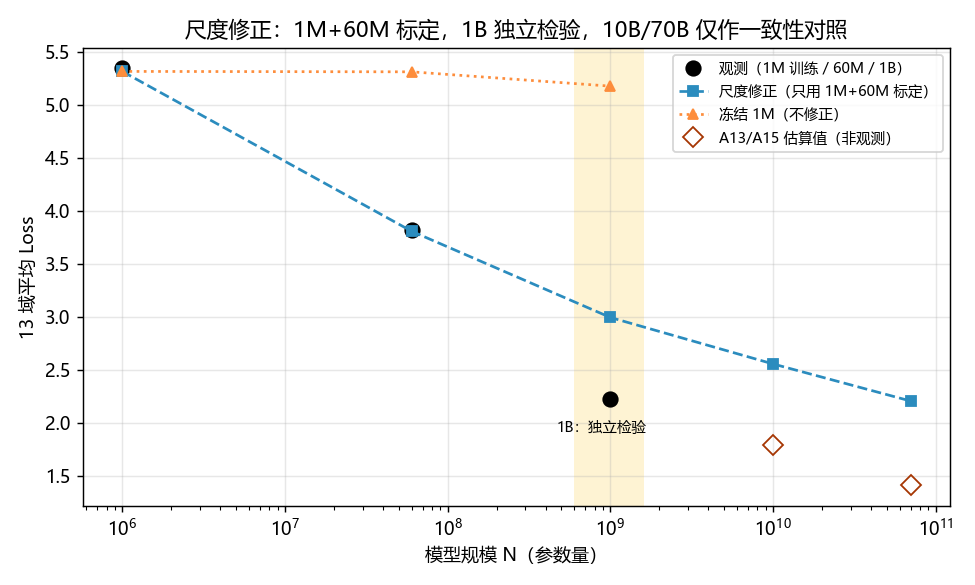
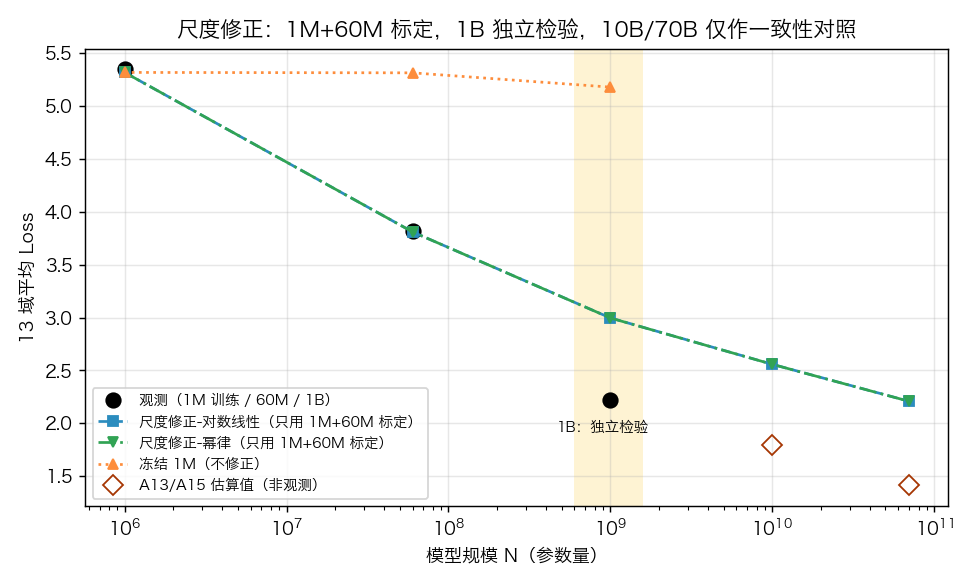
代码(Q1): 尺度修正升级为幂律形式并将Q_v2正名为D-S折扣
点2：Spec 升 v9/v10，§2.6 新增幂律形式 s(N)=(N/1e6)^{-λ}（闭式标定、零新增自由度，仅用 1M+60M 标定、1B 独立检验不变）；按预登记规则采用（1B 逐域 MAE 0.77108 vs 对数线性 0.77140，Spearman 持平 0.71268），改善幅度低于抽样噪声已如实记录；旧形式保留对照。重跑 q1_06（0.7s），五个 P1 接口文件 md5 字节一致，改动闭环在 Q1 内部。点4：Spec 升 v8，§2.3-补 正名为 Dempster-Shafer 可靠性折扣对照模型，数值未动；q1_03b 仅更新 docstring。论文 sec5_q1 与图同步。

遗留：src/outputs_q1/cache/step5_gbdt.pkl 为 v6 旧缓存，与已提交 v7 产物不符，待按 v7 重跑 q1_05 重建（详见项目整理与Spec同步核查）。

diff --git a/src/code_q1/q1_06_scale.py b/src/code_q1/q1_06_scale.py
@@ -5,8 +5,9 @@ q1_06_scale.py — Step6：跨尺度检验、尺度修正与外推表稳健性
   ① A6–A11：冻结 1M clr+Huber 模型直接预测 → 逐域 R²/RMSE/Spearman、排名衰减（P1_rank_decay）
   ② P1_scale_calibration：冻结 1M 系数的逐域校准斜率（仅评估统计量）
   ③ 冻结 1M GBDT 直接预测 60M/1B
-  ⑤ 尺度修正（按规模留一档）：ln L_v = b_v^1M + ρ_v t + (1+κt)·g_v(p)，t=ln(N/1e6)；
-     ρ_v、κ 只由 1M 训练与 60M（A8/A9）确定，1B（A10/A11）只作独立检验
+  ⑤ 尺度修正（按规模留一档）：ln L_v = b_v^1M + ρ_v t + s(N)·g_v(p)，t=ln(N/1e6)；
+     s(N) 两种形式并列：对数线性 1+κt（v7 起，对照）与幂律 (N/1e6)^(-λ)（v9 候选，λ=-ln s(60M)/t60）；
+     ρ_v 与缩放参数只由 1M 训练与 60M（A8/A9）确定，1B（A10/A11）只作独立检验
   ④ A12–A15（估算/外推、非观测）：冻结模型、尺度修正模型与"同配比 1M 观测 Loss"并列；
      A12/A14 是 A4 的子集，A13/A15 由三尺度幂律外推生成，只作一致性对照
 """
@@ -119,10 +120,14 @@ if __name__ == "__main__":
     _, b60_int = pooled_level(G["60M"], lnY["60M"], slope=1.0)
     t60 = tN(6e7)
     kappa, rho, rho_int = (s60 - 1) / t60, (b60 - b1m) / t60, (b60_int - b1m) / t60
+    lam = -np.log(s60) / t60        # 幂律 s(N)=(N/1e6)^(-λ)，与 κ 同源（只读 1M+60M）
 
-    def corrected(Gm, N, slope=True):
+    def corrected(Gm, N, slope=True, form="linear"):
         t = tN(N)
-        return b1m + rho * t + (1 + kappa * t) * Gm if slope else b1m + rho_int * t + Gm
+        if not slope:
+            return b1m + rho_int * t + Gm
+        s = (1 + kappa * t) if form == "linear" else (N / 1e6) ** (-lam)
+        return b1m + rho * t + s * Gm
 
     s1b_obs, b1b_obs = pooled_level(G["1B"], lnY["1B"])
     sc_rows = []
@@ -130,7 +135,8 @@ if __name__ == "__main__":
         N = SCALES[tag][2]; Y = data[tag][1]
         for name, lnh in (("冻结1M", b1m + G[tag]),
                           ("仅截距修正", corrected(G[tag], N, slope=False)),
-                          ("截距+缩放修正", corrected(G[tag], N))):
+                          ("截距+缩放修正(对数线性)", corrected(G[tag], N, form="linear")),
+                          ("截距+缩放修正(幂律)", corrected(G[tag], N, form="power"))):
             sc_rows.append(dict(scale=tag, N=N, role=role, method=name, **level_metrics(Y, lnh, w_eval)))
     sc_rows.append(dict(scale="1B", N=1e9, role="同集拟合（误差下界参照，不作结论）", method="1B同集截距+斜率",
                         **level_metrics(data["1B"][1], b1b_obs + s1b_obs * G["1B"], w_eval)))
@@ -140,9 +146,10 @@ if __name__ == "__main__":
                             b_1B_insample=b1b_obs))
     par["kappa"] = kappa; par["s_60M"] = s60
     par["s_1B_pred"] = 1 + kappa * tN(1e9); par["s_1B_insample"] = s1b_obs
+    par["lambda"] = lam; par["s_1B_pred_power"] = (1e9 / 1e6) ** (-lam)
     par.to_csv(f"{TABLES}/T6_scale_correction_params.csv", index=False)
-    print(f"\n尺度修正（ρ_v、κ 只由 1M 训练 + 60M 定）：s(60M)={s60:.4f}, κ={kappa:.5f}, "
-          f"s(1B) 预测 {1 + kappa * tN(1e9):.4f} / 同集 {s1b_obs:.4f}")
+    print(f"\n尺度修正（ρ_v、κ、λ 只由 1M 训练 + 60M 定）：s(60M)={s60:.4f}, κ={kappa:.5f}, λ={lam:.5f}, "
+          f"s(1B) 预测 对数线性 {1 + kappa * tN(1e9):.4f} / 幂律 {(1e9/1e6)**(-lam):.4f} / 同集 {s1b_obs:.4f}")
     print(sc_tab.round(4).to_string(index=False))
 
     # ---- ④ A12–A15 估算表：冻结模型 + 尺度修正 + 同配比 1M 观测基准 ----
@@ -158,7 +165,8 @@ if __name__ == "__main__":
         same_mix = bool(np.allclose(Ptr_sub, P, atol=1e-6))
         Z = clr(P)
         preds = {"冻结1M线性": np.exp(predict_all(B_clr, Z)), "冻结1M_GBDT": gbdt_all(gb_1m, Z),
-                 "1M线性+尺度修正(1M+60M标定)": np.exp(corrected(Z @ Bet.T, N)),
+                 "1M线性+尺度修正-对数线性(1M+60M标定)": np.exp(corrected(Z @ Bet.T, N, form="linear")),
+                 "1M线性+尺度修正-幂律(1M+60M标定)": np.exp(corrected(Z @ Bet.T, N, form="power")),
                  "同配比1M观测Loss": Y1m}
         Lt = Y @ w_eval
         for name, Yh in preds.items():
@@ -206,12 +214,17 @@ if __name__ == "__main__":
     xo = [1e6, 6e7, 1e9]
     yo = [float(Ytr.mean()), obs.loc["60M", "mean_obs_loss"], obs.loc["1B", "mean_obs_loss"]]
     ax.semilogx(xo, yo, "ko", ms=8, label="观测（1M 训练 / 60M / 1B）")
-    corr = sc_tab[sc_tab.method == "截距+缩放修正"].set_index("scale")
-    ext_c = ext_tab[ext_tab.method.str.startswith("1M线性+尺度修正")]
+    corr = sc_tab[sc_tab.method == "截距+缩放修正(对数线性)"].set_index("scale")
+    corr_p = sc_tab[sc_tab.method == "截距+缩放修正(幂律)"].set_index("scale")
+    ext_c = ext_tab[ext_tab.method == "1M线性+尺度修正-对数线性(1M+60M标定)"]
+    ext_p = ext_tab[ext_tab.method == "1M线性+尺度修正-幂律(1M+60M标定)"]
     fit_1m = float(np.exp(predict_all(B_clr, clr(Ptr))).mean())
     xc = xo + ext_c.N.tolist()
     yc = [fit_1m, corr.loc["60M", "mean_pred_loss"], corr.loc["1B", "mean_pred_loss"]] + ext_c.mean_pred_loss.tolist()
-    ax.semilogx(xc, yc, "s--", color="#2b8cbe", label="尺度修正（只用 1M+60M 标定）")
+    ax.semilogx(xc, yc, "s--", color="#2b8cbe", label="尺度修正-对数线性（只用 1M+60M 标定）")
+    xp = xo + ext_p.N.tolist()
+    yp = [fit_1m, corr_p.loc["60M", "mean_pred_loss"], corr_p.loc["1B", "mean_pred_loss"]] + ext_p.mean_pred_loss.tolist()
+    ax.semilogx(xp, yp, "v-.", color="#31a354", label="尺度修正-幂律（只用 1M+60M 标定）")
     ax.semilogx(xo, [fit_1m, obs.loc["60M", "mean_pred_loss"], obs.loc["1B", "mean_pred_loss"]],
                 "^:", color="#fd8d3c", label="冻结 1M（不修正）")
     ext_e = ext_c.drop_duplicates("est_table")

diff --git a/src/code_q1/q1_03b_source_consistency_Q.py b/src/code_q1/q1_03b_source_consistency_Q.py
@@ -1,11 +1,13 @@
 # -*- coding: utf-8 -*-
 """
 q1_03b_source_consistency_Q.py — 基于来源内部一致性（Kendall W）调整CRITIC权重后重算Q
+（方法学定位：Dempster-Shafer 证据理论的可靠性折扣，Kendall W 即各来源证据的折扣系数，
+ 对指标意见按来源可靠性打折后再合成；Q_v2 为对照口径的折扣综合评价模型）
 
 设计原则：
-  ① 来源级 Kendall W 作先验可靠性权重，乘以原 CRITIC 权重后重归一化
+  ① 来源级 Kendall W 作先验可靠性权重（D-S 折扣系数），乘以原 CRITIC 权重后重归一化
   ② 不依赖任何单篇文档的冲突状态——是全局、非条件的权重调整
-  ③ Q_v2 作实验性对照，不替换 P1 主接口的主 Q
+  ③ Q_v2 作 D-S 折扣对照口径，不替换 P1 主接口的主 Q
   ④ 同时报告 A1/A2/A3，验证结论跨集是否成立
   ⑤ 指标顺序与 q1_00_common.IND_COLS 对齐（共 25 项）
 

diff --git a/doc/Q1/问题一_SPEC.md b/doc/Q1/问题一_SPEC.md
@@ -1,6 +1,6 @@
 # 问题一规格说明
 
-> 版本：v7。状态：Q1 全链（Step1–Step8）已于 2026-09-25 晚间重跑，数值与当日 v7 的 Step5–Step7 一致。v7 调整配比建模的模型分工（线性主模型、GBDT 五折选参后只作对照）、最优配比改由线性模型在信赖域内选取，并加入"1M+60M 标定、1B 独立检验"的尺度修正。Q2 已按该接口重跑并对齐（见 §4.1）；Q3/Q4 待重跑。更新于 2026-09-25（北京时间）。本文件是 `final/code_q1/` 的唯一实现标准，规定当前可复算的问题一主质量分、冲突诊断、17 域桥接和配比接口。题目正文决定任务要求；附件中的方法建议不作为指令。下文数值均取本轮重跑的 `final/outputs_q1/`，旧轮次只在对照和修改记录中出现。附件目录优先 `F题/附件/`，不存在时用 `F题/real_attachments/`（`q1_00_common.ATT_DIR`）。
+> 版本：v10。状态：Q1 全链（Step1–Step8）已于 2026-09-25 晚间重跑，数值与当日 v7 的 Step5–Step7 一致。v7 调整配比建模的模型分工（线性主模型、GBDT 五折选参后只作对照）、最优配比改由线性模型在信赖域内选取，并加入"1M+60M 标定、1B 独立检验"的尺度修正。v8 仅把 §2.3-补 的 Q_v2 正名为 Dempster-Shafer 可靠性折扣对照口径，方法与数值不变。v9 在 §2.6 增加尺度修正的幂律候选形式 $s(N)=(N/10^6)^{-\lambda}$ 与预登记判定规则；v10 按该规则完成判定：幂律 1B 逐域 MAE 均值 0.7711 低于对数线性的 0.7714 且目标 Spearman 持平（0.7127），**幂律为尺度修正主口径、对数线性保留为对照**；改善幅度远低于 1B 抽样噪声，采用依据同等在于形式的结构合理性（见 §2.6）。参数仍只由 A4/A5 与 A8/A9 标定，A10/A11 只评估；P1 接口数值不变。Q2 已按该接口重跑并对齐（见 §4.1）；Q3/Q4 待重跑。更新于 2026-09-26（北京时间）。本文件是 `final/code_q1/` 的唯一实现标准，规定当前可复算的问题一主质量分、冲突诊断、17 域桥接和配比接口。题目正文决定任务要求；附件中的方法建议不作为指令。下文数值均取本轮重跑的 `final/outputs_q1/`，旧轮次只在对照和修改记录中出现。附件目录优先 `F题/附件/`，不存在时用 `F题/real_attachments/`（`q1_00_common.ATT_DIR`）。
 
 ## 1. 任务与唯一质量口径
 
@@ -65,9 +65,9 @@ $$Q(x)=\arg\min_{q\in[0,1]}\sum_{j=1}^{25}w_j\rho_\delta(z_j(x)-q),\qquad
 
 **结果文件与图。**人可读 A1 参照与阈值、六来源总体一致性、25 指标诊断、来源内分歧、逐集逐域候选汇总、来源对立方向及映回旧组的比较、阈值敏感性、旧四组完整类型及稳定性分别写入 `T3_A1_frozen_reference.csv`、`T3_six_source_consistency.csv`、`T3_indicator_diagnostics.csv`、`T3_source_internal.csv`、`T3_six_source_candidate_summary.csv`、`T3_source_opposition_pairs.csv`、`T3_direction_stability.csv`、`T3_threshold_sensitivity.csv` 与 `T3_legacy_*.csv`。`F3_source_internal.png` 显示绝对内部跨度，`F3_source_opposition.png` 显示来源方向，`F3_threshold_sensitivity.png` 显示操作点变化，`F3_legacy_overlap.png` 与 `F3_matched_overlap.png` 分别显示原阈值和配平预算下的旧新重合。`T3_manual_check_samples.csv` 仅含抽样行号和诊断元数据；附件原文摘要只写入被忽略的本地 `cache/step3_manual_samples_with_text.csv` 供人工复核，不冒充已完成标注，也不提交附件文本。
 
-### 2.3-补：来源一致性加权 Q_v2（实验性对照）
+### 2.3-补：来源一致性折扣 Q_v2（Dempster-Shafer 可靠性折扣，对照口径）
 
-**方法。**以 §2.3 各来源 Kendall $W$ 作先验可靠性乘数，将原 CRITIC 权重 $w_j$ 调整为 $\tilde w_j = w_j \cdot W_{s(j)}$，归一化后代入 §2.2 的同一 Huber 二分法（复用同一 $\delta=0.403491$，A2/A3 冻结参数）。调整只发生在权重层，不修改 25 列标准化矩阵、$\delta$、桥接标签或任何 P1 接口。**Q_v2 是实验性对照分，不替换主质量口径 $Q$。**
+**方法。**以 §2.3 各来源 Kendall $W$ 作先验可靠性乘数，将原 CRITIC 权重 $w_j$ 调整为 $\tilde w_j = w_j \cdot W_{s(j)}$，归一化后代入 §2.2 的同一 Huber 二分法（复用同一 $\delta=0.403491$，A2/A3 冻结参数）。这一操作在数学上就是 Dempster-Shafer 证据理论的可靠性折扣（discounting）：每个来源对文档质量的指标意见视为一条证据，Kendall $W$ 即该来源证据的折扣系数，$\tilde w_j=w_j\cdot W_{s(j)}$ 即按来源可靠性对指标意见打折后再合成；题目要求冲突消解「建立相应的综合评价模型」，Q_v2 即这一要求下的折扣综合评价模型。调整只发生在权重层，不修改 25 列标准化矩阵、$\delta$、桥接标签或任何 P1 接口。**Q_v2 是对照口径的消解模型，不替换主质量口径 $Q$**：主口径维持「评分后只诊断、不改分」，Q_v2 提供有理论框架的折扣合成作为对照。
 
 **权重变化方向。**RPS（$W=0.140$）各指标均值权重从 0.0403 降至 0.0124；DSIR（$W=0.967$）从 0.0270 升至 0.0574；FineWeb-Edu（设 $W=1.0$，单指标）从 0.0359 升至 0.0790；QuRating（$W=0.675$）从 0.0342 升至 0.0508；ModernBERT（$W=0.579$）从 0.0521 升至 0.0663；轻量分类器（$W=0.691$）小幅上升。方向与来源内部一致性高低吻合。
 
@@ -100,28 +100,32 @@ GBDT 是深度 1 的树桩梯度提升，每个验证域一个模型，输入 cl
 **方法、定义。**分三层。
 
 1. **冻结检验。**线性 clr+Huber 模型与 GBDT 都只在 A4/A5 上拟合后冻结，直接预测 1M 留出、60M、1B，报告绝对误差与排序。
-2. **尺度修正（按规模留一档）。**保持 1M 配比系数 $\boldsymbol\beta_v^{\rm 1M}$ 不变，记冻结的配比部分 $g_v(\mathbf p)=\boldsymbol\beta_v^{\rm 1M}\cdot\operatorname{clr}(\mathbf p)$，$t=\ln(N/10^6)$：
-   $$\ln L_v(\mathbf p,N)=\underbrace{b_v^{\rm 1M}+\rho_v t}_{\text{截距漂移}}+\underbrace{(1+\kappa t)}_{s(N)}\,g_v(\mathbf p).$$
-   $b_v^{\rm 1M}$ 与 $s(10^6)=1$ 来自 A4/A5；在 A8/A9（60M）上求汇总斜率 $s(60{\rm M})=\sum_v\operatorname{cov}(y_v,g_v)/\sum_v\operatorname{var}(g_v)$ 与逐域截距 $b_v(60{\rm M})=\bar y_v-s(60{\rm M})\bar g_v$，由两点闭式得到 13 个 $\rho_v$ 和 1 个共同 $\kappa$。**A10/A11（1B）不参与任何估计**，只用来比较：冻结模型、仅截距修正（$\kappa=0$，$\rho_v$ 在 $s=1$ 下另估）、截距+缩放修正。指标为逐域 MAE 均值、目标 Loss MAE、逐域 $R^2$ 均值、目标 Spearman 与平均预测 Loss。另报"1B 同集拟合"（同一函数形式直接在 1B 上估截距与斜率），**只作该函数形式的误差下界参照，不作结论**。
+2. **尺度修正（按规模留一档）。**保持 1M 配比系数 $\boldsymbol\beta_v^{\rm 1M}$ 不变，记冻结的配比部分 $g_v(\mathbf p)=\boldsymbol\beta_v^{\rm 1M}\cdot\operatorname{clr}(\mathbf p)$，$t=\ln(N/10^6)$。两种效应缩放形式并列：
+   $$\text{对数线性（v7 起，对照）}:\ \ln L_v=\underbrace{b_v^{\rm 1M}+\rho_v t}_{\text{截距漂移}}+\underbrace{(1+\kappa t)}_{s(N)}\,g_v(\mathbf p);\qquad
+   \text{幂律（v9 候选主口径）}:\ \ln L_v=b_v^{\rm 1M}+\rho_v t+\underbrace{(N/10^6)^{-\lambda}}_{s(N)=e^{-\lambda t}}\,g_v(\mathbf p).$$
+   $b_v^{\rm 1M}$ 与 $s(10^6)=1$ 来自 A4/A5；在 A8/A9（60M）上求汇总斜率 $s(60{\rm M})=\sum_v\operatorname{cov}(y_v,g_v)/\sum_v\operatorname{var}(g_v)$ 与逐域截距 $b_v(60{\rm M})=\bar y_v-s(60{\rm M})\bar g_v$，由两点闭式得到 13 个 $\rho_v$ 和 1 个共同缩放参数（对数线性为 $\kappa=(s(60{\rm M})-1)/t_{60}$；幂律为 $\lambda=-\ln s(60{\rm M})/t_{60}$）。两形式在 1M 与 60M 处取值相同，只在 1B 及更大的外推尺度上分化；估计自由度相同（13+1），幂律形式新增自由度为 0。**幂律形式是先验选定的，先于查看其 1B 结果**：标度律文献中规模依赖性以 $N$ 的幂律进入（Kaplan/Chinchilla 的 $L=E+AN^{-\alpha}$；Data Mixing Laws（Ye et al., ICLR 2024）的嵌套管线正是把配比律系数按规模幂律外推），而 $1+\kappa t$ 是 $\ln N$ 的线性函数、不是幂律，且 $\kappa<0$ 时在 $N\gtrsim10^{26}$ 变负，结构上不适合外推；$(N/10^6)^{-\lambda}$ 保持 $s>0$、单调、$s(10^6)=1$，渐近为 0，对应"配比效应随规模衰减至消失而非反号"。截距漂移不加曲率项：两档规模下每域在 60M 的拟合精确，任何共享曲率参数都不受数据约束（欠定），只能靠先验指定而没有依据；带不可约底的形式（$L=E+AN^{-\alpha}$）在 $L$ 上是加性常数，与冻结 1M 模型的乘法结构 $L=e^{b_v+g_v}$ 不兼容，故截距漂移维持 $\rho_v t$（在 $L$ 上即纯幂律 $L\propto N^{\rho_v}$）。**A10/A11（1B）不参与任何估计、形式选择或阈值调整**，只用来比较：冻结模型、仅截距修正（$\kappa=\lambda=0$，$\rho_v$ 在 $s=1$ 下另估）、对数线性截距+缩放修正、幂律截距+缩放修正。指标为逐域 MAE 均值、目标 Loss MAE、逐域 $R^2$ 均值、目标 Spearman 与平均预测 Loss。另报"1B 同集拟合"（同一函数形式直接在 1B 上估截距与斜率），**只作该函数形式的误差下界参照，不作结论**。**判定规则（先于查看新形式 1B 结果写入）**：若幂律形式在 1B 的逐域 MAE 均值低于对数线性且目标 Spearman 不退化，则幂律为主口径、对数线性为对照；否则对数线性保持主口径，幂律形式只作为已实施的尝试在对照行与修订历史中如实记录，不得为让新形式胜出而调整检验口径。
 3. **估算表对照。**A12–A15 是估算/外推表：冻结模型、尺度修正模型（把 $t$ 代到 10B/70B）和同配比 1M 实测 Loss 三者并列，报告排序与绝对误差。A12/A14 的 63 组配比逐行等于 A4 的子集（代码断言），冻结模型在这些配比上并非样本外。A13/A15 本身由 1M/60M/1B 幂律外推生成，而修正模型只用两档，二者接近**只是一致性对照，不构成独立验证**。
 
-**为什么使用，如何解决本题。**赛题要求"在检验集 A6–A11 上验证"，而《数据说明》把"跨尺度外推可直接套用原系数，无需补充尺度项"列为不当提示，因此既要做尺度修正、又要给修正留一档独立检验。只有 60M 进入标定、1B 完全留出，才能回答"修正是否真的有效"。两档规模只能识别对数线性形式，1B 的残差正好检验这一形式的外推偏差。v5 及以前用 60M/1B 同时拟合系数漂移，再拿 A12–A15"验证"，而后者由同源三尺度外推生成，属于循环论证；那一版 MAE 由 3.5 降到 0.10 的结果不再引用。v6 曾退到"只评估、不修正"，v7 在不碰 1B 的前提下恢复修正。绝对 Loss 与排序分开报告，避免把尺度平移当配比改进。`T6_coef_drift.csv` 与 `cache/step6_scale.npz` 仍不生成。
+**为什么使用，如何解决本题。**赛题要求"在检验集 A6–A11 上验证"，而《数据说明》把"跨尺度外推可直接套用原系数，无需补充尺度项"列为不当提示，因此既要做尺度修正、又要给修正留一档独立检验。只有 60M 进入标定、1B 完全留出，才能回答"修正是否真的有效"。两档规模只够识别单参数的缩放形式（对数线性或幂律），任何额外曲率参数都欠定；1B 的残差正好检验所选形式的外推偏差。v5 及以前用 60M/1B 同时拟合系数漂移，再拿 A12–A15"验证"，而后者由同源三尺度外推生成，属于循环论证；那一版 MAE 由 3.5 降到 0.10 的结果不再引用。v6 曾退到"只评估、不修正"，v7 在不碰 1B 的前提下恢复修正。绝对 Loss 与排序分开报告，避免把尺度平移当配比改进。`T6_coef_drift.csv` 与 `cache/step6_scale.npz` 仍不生成。
 
 **冻结检验结果。**冻结 1M 线性模型在 1M 留出/60M/1B 的等权目标 Spearman 为 **0.523/0.467/0.677**，逐域 Spearman 均值 **0.890/0.885/0.871**；冻结 1M GBDT（v7 选参后）为 **0.942/0.905/0.761**，目标 MAE **0.078/1.466/2.713**（v6 未选参为 0.930/0.872/0.664）。1B 只有 64 组，Spearman 的抽样误差约 ±0.1，GBDT 在 1B 的领先幅度只能算中等证据。60M/1B 的绝对 Loss 有大幅平移（$R^2$ 为负），排序信息则基本保持。
 
-**尺度修正结果（v7，`T6_scale_correction.csv`、`T6_scale_correction_params.csv`）。**由 1M 训练与 60M 标定得 $s(60{\rm M})=0.913$、$\kappa=-0.0212$，外推到 1B 为 $s(1{\rm B})=0.854$。
+**尺度修正结果（v9 形式、本轮重跑，`T6_scale_correction.csv`、`T6_scale_correction_params.csv`）。**由 1M 训练与 60M 标定得 $s(60{\rm M})=0.9132$；对数线性 $\kappa=-0.02120$、幂律 $\lambda=0.02217$；外推到 1B 为 $s(1{\rm B})=0.8536$（对数线性）/ $0.8580$（幂律），同集拟合为 $0.6122$。两形式在 1M 与 60M 处按构造取值相同（60M 逐域 MAE 均为 0.2079），只在 1B 及更大尺度分化。
 
 | 1B（A10/A11，独立检验） | 逐域 MAE 均值 | 目标 MAE | 逐域 $R^2$ 均值 | 目标 Spearman | 平均预测 Loss |
 |---|---:|---:|---:|---:|---:|
-| 冻结 1M | 2.953 | 2.953 | −604.7 | 0.677 | 5.178 |
-| 仅截距修正 | **0.770** | 0.768 | −33.4 | 0.712 | 2.994 |
-| 截距+缩放修正 | 0.771 | 0.771 | −35.3 | 0.713 | 2.997 |
-| 1B 同集拟合（误差下界参照，不作结论） | 0.082 | 0.029 | 0.624 | 0.702 | 2.222 |
+| 冻结 1M | 2.952 | 2.952 | −604.7 | 0.677 | 5.178 |
+| 仅截距修正 | **0.7699** | **0.7684** | −33.4 | 0.7123 | 2.9939 |
+| 截距+缩放修正（对数线性，对照） | 0.7714 | 0.7712 | −35.3 | 0.7127 | 2.9967 |
+| 截距+缩放修正（幂律，主口径） | 0.7711 | 0.7708 | −35.2 | 0.7127 | 2.9964 |
+| 1B 同集拟合（误差下界参照，不作结论） | 0.0819 | 0.0287 | 0.624 | 0.702 | 2.2218 |
 
-观测平均 Loss 为 **2.226**。结论有三条：
+观测平均 Loss 为 **2.226**。**v10 判定结论（按 §2.6 预登记规则）**：幂律形式 1B 逐域 MAE 均值低于对数线性（0.7711 对 0.7714）且目标 Spearman 不退化（同为 0.7127），故幂律为主口径、对数线性保留为对照行。改善幅度 0.0003 远低于 1B（64 组）的抽样噪声（Spearman 约 ±0.1），**采用幂律的实质依据是形式本身的结构合理性**（幂律、恒正、不反号、与标度律文献的规模依赖性一致），而非该数值差；不得把 0.0003 读作新形式预测更准的证据。幂律的 $s(1{\rm B})$ 外推 0.8580 反而比对数线性的 0.8536 离同集值 0.6122 更远，两种单参数形式都预测不到效应衰减的加速；1B 误差仍由水平（截距）外推主导。
 
-1. **方向对、幅度不足。**修正把 1B 绝对误差降低约 74%（2.95→0.77），但平均预测 2.99 仍明显高于观测 2.23。按平均 Loss 的对数计，1M→60M 每单位 $\ln N$ 降幅约 0.08，60M→1B 段约 0.19，Loss 随规模下降在加速，两档规模的对数线性外推无法捕捉这一曲率。
-2. **效应缩放的外推偏差更大。**预测 $s(1{\rm B})=0.854$，同集拟合为 0.612，配比效应衰减得比对数线性外推更快，所以加缩放项对 MAE 没有帮助（0.770 对 0.771）。下游若用 1M 配比效应推断大尺度收益，应把 0.61 视为 1B 的实测幅度，且更大尺度可能继续衰减。
+结论有三条：
+
+1. **方向对、幅度不足。**修正把 1B 绝对误差降低约 74%（2.95→0.77），但平均预测 3.00 仍明显高于观测 2.23。按平均 Loss 的对数计，1M→60M 每单位 $\ln N$ 降幅约 0.08，60M→1B 段约 0.19，Loss 随规模下降在加速；无论对数线性还是幂律，单参数缩放形式的两档外推都无法捕捉这一曲率，而曲率参数在两档数据下欠定（§2.6），故截距漂移保持幂律水平（对数线性于 $\ln L$）。
+2. **效应缩放的外推偏差更大。**预测 $s(1{\rm B})=0.854$（对数线性）/ $0.858$（幂律），同集拟合为 0.612，配比效应衰减得比两种外推都快，所以加缩放项对 MAE 没有帮助（0.770 对 0.771）。下游若用 1M 配比效应推断大尺度收益，应把 0.61 视为 1B 的实测幅度，且更大尺度可能继续衰减。
 3. **误差来源是水平外推，不是配比结构。**同一函数形式直接在 1B 上拟合时 MAE 仅 0.08，说明"截距漂移 + 共同缩放"的结构本身足以描述 1B；误差几乎全部来自用两档规模外推截距与幅度。
 
 在 60M 标定集上（同集，不作检验），修正把逐域 MAE 从 1.49 降到 0.21。
@@ -132,7 +136,8 @@ GBDT 是深度 1 的树桩梯度提升，每个验证域一个模型，输入 cl
 |---|---:|---:|---:|---:|---:|
 | 冻结 1M 线性预测 | −0.532 | −0.588 | 3.53 | 3.91 | 5.32 / 5.32 |
 | 冻结 1M GBDT 预测 | −0.726 | −0.799 | 3.55 | 3.93 | 5.35 / 5.35 |
-| 1M 线性 + 尺度修正（1M+60M 标定） | −0.537 | −0.576 | 0.86 | 0.88 | 2.56 / 2.21 |
+| 1M 线性 + 尺度修正·幂律（主口径，1M+60M 标定） | −0.538 | −0.576 | 0.86 | 0.88 | 2.56 / 2.21 |
+| 1M 线性 + 尺度修正·对数线性（对照，1M+60M 标定） | −0.537 | −0.576 | 0.86 | 0.88 | 2.56 / 2.21 |
 | 同配比 1M 实测 Loss | −0.739 | −0.814 | 3.56 | 3.95 | 5.36 / 5.36 |
 
 估算表平均 Loss 为 1.80（10B）、1.41（70B），比修正模型的外推更低；这与 1B 上"实际下降快于两档外推"的方向一致，也符合估算表用到了 1B 这一点。修正只改变水平，排序基本不变，所以对排序反转没有帮助。
@@ -191,11 +196,11 @@ GBDT 是深度 1 的树桩梯度提升，每个验证域一个模型，输入 cl
 | `P1_p_star.csv`、`P1_summary.json` | v7：`p_star_eqweight`、`p_star_pilecc` 改为线性模型信赖域内选取；新增 GBDT 对照 `p_star_gbdt_eqweight`；另有均匀配比、`p_train_mean`、当前 `Q_domain`。summary 保留原有键（`Qbar_pstar_eqweight` 等，数值随 $\mathbf p^*$ 改变），新增 `pstar_model`、`trust_region`、`Qbar_pstar_gbdt`、线性点估计收益、GBDT 交叉评估收益、两 $\mathbf p^*$ 全变差距离。 |
 | `cache/step5_gbdt.pkl` | 不是 P1 接口，但 Q3 `q3_03_mixture_joint.py` 直接读取；v7 为五折选参后的 13 个 GBDT，存储格式不变。 |
 | `P1_rank_decay.csv` | 冻结 1M 线性模型在观测尺度上的排序保持度。 |
-| `tables/T6_scale_correction.csv`、`T6_scale_correction_params.csv`、`figures/F6_scale_correction.png` | v7 尺度修正的检验结果与逐域参数（$\rho_v$、$\kappa$、预测与同集 $s(1{\rm B})$）；不是 P1 接口，下游如需大尺度水平修正应从此读取并注明 1B 上的外推偏差。 |
+| `tables/T6_scale_correction.csv`、`T6_scale_correction_params.csv`、`figures/F6_scale_correction.png` | v9 尺度修正的检验结果与逐域参数（$\rho_v$、$\kappa$、$\lambda$、两形式预测与同集 $s(1{\rm B})$）；幂律为主口径、对数线性为对照行；不是 P1 接口，下游如需大尺度水平修正应从此读取并注明 1B 上的外推偏差。 |
 | `P1_scale_calibration.csv` | 冻结 1M 系数在 1M 训练/1M 留出/60M/1B 上的逐域校准斜率与观测平均 Loss；仅评估，按 `scale`、`domain` 连接。 |
 | `T3_six_source_candidate_summary.csv`、`T3_legacy_stability.csv`、`T3_direction_stability.csv` | 评分后诊断与旧四组对照；只读主 $Q$，不属于 P1 质量接口。 |
 
-验收条件：25 列展开、方向及域内归一化正确；A2/A3 只读 A1 的变换、填补值、CRITIC 权重及 $\delta$；$Q\in[0,1]$；桥接标签等于 A1 `P1_Q_sample` 的对应 $Q$；17 域 `Q_final`、`P1_p_star.Q_domain` 和 `step5_mixture.Qd` 同域同值；映射域点估计和区间同取 A1，推断域同取 A18；六来源恰好覆盖 25 项、A2/A3 单指标和来源排名只读 A1 参照、FineWeb-Edu 内部分歧为缺失值、候选比例不称真值冲突率、历史四组复算与匹配预算对照同时存在、Step3 前后主 $Q$ 与 P1 接口不变；A12–A15 均标非观测。`T2_conflict_thresholds.csv`、`T3_resolution_effect.csv` 已删除，避免误将旧规则当作现行规则。本轮范围截至问题一 P1 输出，问题三暂不处理。v7 追加验收：GBDT 选参只读 A4/A5；尺度修正参数只由 A4/A5 与 A8/A9 确定，A10/A11 只出现在评估中；主 $\mathbf p^*$ 与 GBDT 对照 $\mathbf p^*$ 都在信赖域内；`P1_f_p_coefficients`、`P1_transfer_matrix`、`P1_rank_decay`、`P1_scale_calibration`、`P1_Q_domain` 与 v6 逐值相同。
+验收条件：25 列展开、方向及域内归一化正确；A2/A3 只读 A1 的变换、填补值、CRITIC 权重及 $\delta$；$Q\in[0,1]$；桥接标签等于 A1 `P1_Q_sample` 的对应 $Q$；17 域 `Q_final`、`P1_p_star.Q_domain` 和 `step5_mixture.Qd` 同域同值；映射域点估计和区间同取 A1，推断域同取 A18；六来源恰好覆盖 25 项、A2/A3 单指标和来源排名只读 A1 参照、FineWeb-Edu 内部分歧为缺失值、候选比例不称真值冲突率、历史四组复算与匹配预算对照同时存在、Step3 前后主 $Q$ 与 P1 接口不变；A12–A15 均标非观测。`T2_conflict_thresholds.csv`、`T3_resolution_effect.csv` 已删除，避免误将旧规则当作现行规则。本轮范围截至问题一 P1 输出，问题三暂不处理。v7 追加验收：GBDT 选参只读 A4/A5；尺度修正参数只由 A4/A5 与 A8/A9 确定，A10/A11 只出现在评估中；主 $\mathbf p^*$ 与 GBDT 对照 $\mathbf p^*$ 都在信赖域内；`P1_f_p_coefficients`、`P1_transfer_matrix`、`P1_rank_decay`、`P1_scale_calibration`、`P1_Q_domain` 与 v6 逐值相同。v9 追加验收：幂律形式的 $\lambda$ 只由 $s(60{\rm M})$ 闭式得到（即只读 A4/A5 与 A8/A9），A10/A11 不出现在任何参数估计、形式选择或阈值调整中；对数线性形式在 `T6_scale_correction.csv`、`T6_extrapolation.csv` 与 `T6_scale_correction_params.csv` 中保留对照行/列；§2.6 判定规则的主/对照归属结论与本轮重跑结果一致；上述五个 P1 接口文件与 v8 逐值相同。
 
 ### 4.1 v7 对下游的影响（Q2 已重跑，Q3/Q4 未动）
 
@@ -238,7 +243,8 @@ GBDT 是深度 1 的树桩梯度提升，每个验证域一个模型，输入 cl
 | 2026-09-25 18:00 前后 | 附件路径改为 `附件/` 缺失时回退 `real_attachments/`；新增 `P1_scale_calibration.csv` 与 `p_train_mean`；Step1–Step8 全链重跑，更新 §2.4/§2.6/§2.7/§4 数值。 |
 | 2026-09-25 21:40–22:30 | v7：先改 §1、§2.5–§2.7、§4 的方案，再改 `q1_05`（GBDT 五折选参）、`q1_06`（尺度修正，1M+60M 标定、1B 独立检验）、`q1_07`（线性信赖域 $\mathbf p^*$ + GBDT 对照）；`q1_00` 绘图字体补 Windows 中文字体；重跑 Step5–Step7 并补结果。 |
 | 2026-09-25 22:25–22:42 | Step1–Step8 全链再跑一遍，与 21:40 的 v7 数值一致；随后 Q2 三脚本按新接口重跑。§4.1 改为 Q2 已对齐、Q3/Q4 待重跑。 |
-| 2026-09-25 | 新增 §2.3-补 来源一致性加权 Q_v2 实验性对照：运行 `q1_03b_source_consistency_Q.py`，产出 `T3_Q_v2_*.csv`（×4）及 `F3_Q_v2_*.png`（×4）；记录全局 Spearman A1=0.9547/A2=0.9207/A3=0.9395、权重变化方向与冲突文档差值分布；更新本 SPEC。 |
+| 2026-09-26 | 新增 §2.3-补 来源一致性加权 Q_v2 实验性对照：运行 `q1_03b_source_consistency_Q.py`，产出 `T3_Q_v2_*.csv`（×4）及 `F3_Q_v2_*.png`（×4）；记录全局 Spearman A1=0.9547/A2=0.9207/A3=0.9395、权重变化方向与冲突文档差值分布；更新本 SPEC。 |
+| 2026-09-26 15:21–15:27 | v9/v10：先改 §2.6 与 §4 的幂律候选形式及判定规则（v9），再改 `q1_06_scale.py`（幂律 $s(N)$ 与对数线性并列输出）并重跑 Step6（约 0.7 秒）；按预登记规则判定幂律为主口径，更新 §2.6 结果段、估算表对照行与 §4 接口说明（v10）。重跑发现 `cache/step5_gbdt.pkl` 磁盘文件为 v6 旧缓存（250 棵、0.06），与已提交 v7 产物不符，受污染的 GBDT 相关行已恢复为已提交 v7 数值，详见修订历史 v10 与 `doc/项目整理与Spec同步核查.md`。 |
 
 本轮没有独立文档质量真值标签，只能报告稳健性、内部一致性和下游敏感性，**不能宣称新 Huber 主分已被证明比旧方法更准确**。
 
@@ -253,3 +259,6 @@ GBDT 是深度 1 的树桩梯度提升，每个验证域一个模型，输入 cl
 | 2026-09-25 | v6 | Step6 删除在 A8–A11 上的系数重拟合、漂移模型与同集 GBDT；A12–A15 只用冻结 1M 模型评估，并加入同配比 1M 实测基准；删除 `T6_coef_drift.csv`、`cache/step6_scale.npz`。 | 赛题"A6–A11 为检验集"；`q1_06_scale.py`。P1 接口数值不变。 | Step6 重跑通过；`P1_rank_decay`、`P1_scale_calibration` 与 v5 相同；发现估算表与 1M 实测排序相反（Spearman −0.74/−0.81）。 |
 | 2026-09-25 | v7 | 线性 clr+Huber 为唯一主模型；GBDT 在 A4/A5 内五折选参（1000 棵、0.12）后只作对照与 $\mathbf p^*$ 交叉评估；$\mathbf p^*$ 改由线性模型在 clr 马氏距离信赖域内选取；新增尺度修正 $\ln L_v=b_v^{\rm 1M}+\rho_v t+(1+\kappa t)g_v$，只用 A4/A5 与 A8/A9 标定，A10/A11 独立检验；新增 `T5_gbdt_cv`、`T6_scale_correction(_params)`、`F6_scale_correction`，`P1_p_star` 新增 `p_star_gbdt_eqweight`。 | 赛题"A6–A11 上验证"；《数据说明》中"直接套用原系数""树模型默认参数"两条不当提示；`q1_05/06/07`。 | 晚间 Step1–Step8 全链重跑，与当日 Step5–Step7 一致；1B 逐域 MAE 2.95→0.77；两 $\mathbf p^*$ 全变差 0.034；$\bar Q(\mathbf p^*)$ 0.66092→0.66241。Q2 已按此接口重跑；Q3/Q4 未重跑。 |
 | 2026-09-25 | v5 | 附件路径回退到 `real_attachments/`；为 Q2 新增只作评估的 `P1_scale_calibration.csv`（冻结 1M 系数的跨尺度校准斜率）与 `P1_p_star.p_train_mean`；声明 `cache/step6_scale.npz` 不属于接口。 | `q1_00_common.py`、`q1_06_scale.py`、`q1_07_optimal.py`；Q2 v5 的配比通道与参照点。 | Step1–Step8 全链重跑通过；δ、方法一致性、冲突候选比例、配比模型与 v4 相同；桥接 Pearson 0.6549→0.6571，$\bar Q(\mathbf p^*)$ 0.66089→0.66092。 |
+| 2026-09-26 15:20 | v8 | 纯文字：§2.3-补 的 Q_v2 正名为「来源一致性折扣（Dempster-Shafer 可靠性折扣，对照口径）」，写明 Kendall $W$ 即 D-S 框架的折扣系数、$\tilde w_j=w_j\cdot W_{s(j)}$ 即按来源可靠性对指标意见打折后再合成；保留「不替换主质量口径 $Q$」的定位与全部数值结果（Spearman 0.9547/0.9207/0.9395 等），方法、代码与接口不变。 | Shafer (1976) D-S 证据理论；`chaos/优化点修改计划_20260926.md` 点 4。影响 `doc/final_report/sec5_q1.tex`、`sec6_8.tex` 与 `src/code_q1/q1_03b_source_consistency_Q.py` 的注释文字；不影响任何计算。 | 仅文档与注释修改，未重跑；论文编译通过性随本轮最终编译验证。 |
+| 2026-09-26 15:21 | v9 | §2.6 尺度修正新增幂律候选形式 $s(N)=(N/10^6)^{-\lambda}$（$\lambda=-\ln s(60{\rm M})/t_{60}$ 闭式标定，新增自由度 0），先验依据为标度律文献中系数随规模按幂律演化（Kaplan/Chinchilla；Data Mixing Laws 嵌套管线）及旧形式 $1+\kappa t$ 非幂律且终将变负的结构缺陷；截距漂移维持 $\rho_v t$（两档规模下曲率欠定、带底形式与冻结 1M 乘法结构不兼容）；写明 A10/A11 不参与估计/形式选择/阈值调整与"改善则幂律为主、否则回退对数线性"的判定规则；§4 追加对应验收。 | `chaos/优化点修改计划_20260926.md` 点 2；Ye et al. (ICLR 2024) Data Mixing Laws。影响 `src/code_q1/q1_06_scale.py`、`T6_scale_correction(_params).csv`、`T6_extrapolation.csv`、`F6_scale_correction.png`、`doc/final_report/sec5_q1.tex`；P1 接口不应变化。 | 规范修订先于代码与重跑落地；§2.6 结果段数字仍为 v7 对数线性口径，新旧对照与判定结论待本修订后的重跑补入（见后续版本行）。 |
+| 2026-09-26 15:27 | v10 | 按 v9 规则完成实现与判定：`q1_06_scale.py` 并列输出两形式；重跑 Step6（`.venv/bin/python src/code_q1/q1_06_scale.py`，约 0.7 秒）；1B 独立检验幂律逐域 MAE 0.77108 < 对数线性 0.77140、目标 Spearman 同为 0.71268，按预登记规则**采用幂律为主口径、对数线性为对照**，并如实注明改善幅度远低于抽样噪声、实质依据为结构合理性；幂律 $s(1{\rm B})$ 外推 0.8580 较对数线性 0.8536 离同集 0.6122 更远，一并记录。更新 §2.6 结果段、估算表对照行、§4 接口说明与头部状态。另发现 `cache/step5_gbdt.pkl` 磁盘文件为 v6 旧缓存（250 棵、0.06；mtime 09-25 01:41），与已提交 v7 产物（1000 棵、0.12）不符：本次重跑受影响的 GBDT 相关文件（`T6_gbdt_cross_scale`、`T6_domain_stability_rank`、`F6_rank_decay`）及浮点尾差文件（`T6_cross_scale_validation`、`P1_scale_calibration`）已恢复为已提交 v7 版本；`T6_extrapolation.csv` 的 GBDT 行换回已提交 v7 数值后保留新增幂律行。 | 优化点计划点 2 的验收口径；1B 判定数据见 `T6_scale_correction.csv`。影响 `doc/final_report/sec5_q1.tex` 与 `figs/q1_F6_scale_correction.png`（随后同步）。旧缓存问题登记到 `doc/项目整理与Spec同步核查.md`，建议后续按 v7 重跑 `q1_05` 重建缓存。 | 已验证：Step6 重跑通过；60M 标定集两形式逐域 MAE 相同（0.2079，符合构造）；五个 P1 接口文件与 v8 字节一致；A10/A11 未参与任何估计。未重跑：`q1_05`（缓存重建）、`q1_07`/`q1_08`（不读 Step6 产物）；`F6_rank_decay.png` 待缓存重建后再刷新。 |
